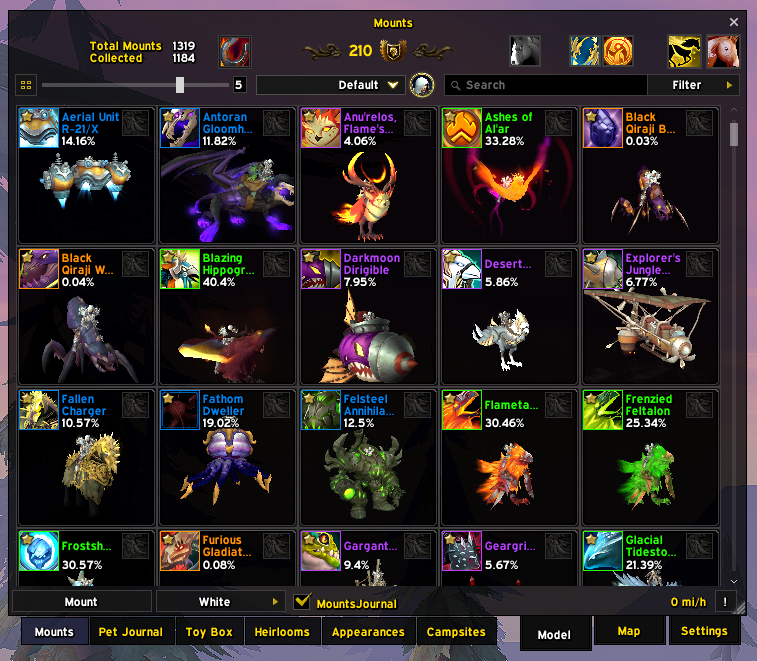
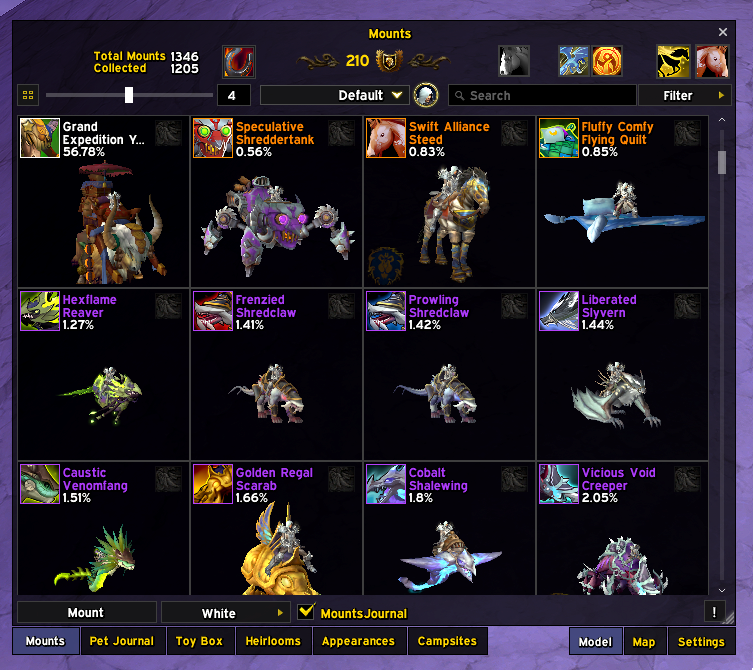
Refresh the screenshots, and swap class settings for the Map tab
New captures of the list, grid and settings, plus the Map tab in place of class settings. Captions rewritten to match what the new shots actually show.

diff --git a/docs/curseforge-description.md b/docs/curseforge-description.md
@@ -15,19 +15,19 @@ The whole idea is that it follows **your** EllesmereUI setup rather than imposin
 
 ![Mount list](https://raw.githubusercontent.com/egsherlock/MountsJournal-EllesmereUI-Skin/main/docs/mounts.png)
 
-*The journal picking up a Dark Mode profile, colour and transparency both.*
+*The mount list and model, wearing the active profile's colour, accent, font and border.*
 
 ![Grid view](https://raw.githubusercontent.com/egsherlock/MountsJournal-EllesmereUI-Skin/main/docs/grid.png)
 
 *Grid view, with the mounts per row slider.*
 
+![Map tab](https://raw.githubusercontent.com/egsherlock/MountsJournal-EllesmereUI-Skin/main/docs/map.png)
+
+*The Map tab, with its zone flags underneath.*
+
 ![Settings](https://raw.githubusercontent.com/egsherlock/MountsJournal-EllesmereUI-Skin/main/docs/settings.png)
 
 *MountsJournal's own settings, skinned to match.*
-
-![Class settings](https://raw.githubusercontent.com/egsherlock/MountsJournal-EllesmereUI-Skin/main/docs/class-settings.png)
-
-*Class settings, with the class list and macro editors.*
 
 ## What it takes from EllesmereUI
 

diff --git a/README.md b/README.md
@@ -31,9 +31,9 @@ and the journal changes with it.
 | | |
 |---|---|
 | ![Mount list](docs/mounts.png) | ![Grid view](docs/grid.png) |
-| The journal picking up a Dark Mode profile, colour and transparency both | Grid view, with the mounts per row slider |
-| ![Settings](docs/settings.png) | ![Class settings](docs/class-settings.png) |
-| MountsJournal's own settings, skinned to match | Class settings, with the class list and macro editors |
+| The mount list and model, wearing the active profile's colour, accent, font and border | Grid view, with the mounts per row slider |
+| ![Map tab](docs/map.png) | ![Settings](docs/settings.png) |
+| The Map tab, with its zone flags underneath | MountsJournal's own settings, skinned to match |
 
 ## Installing
 
